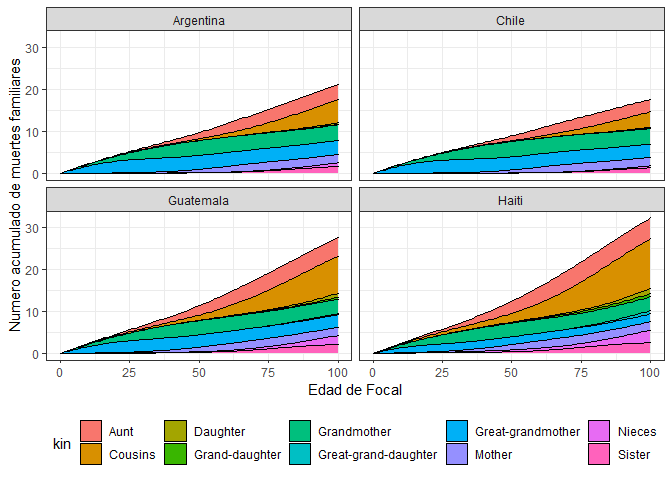
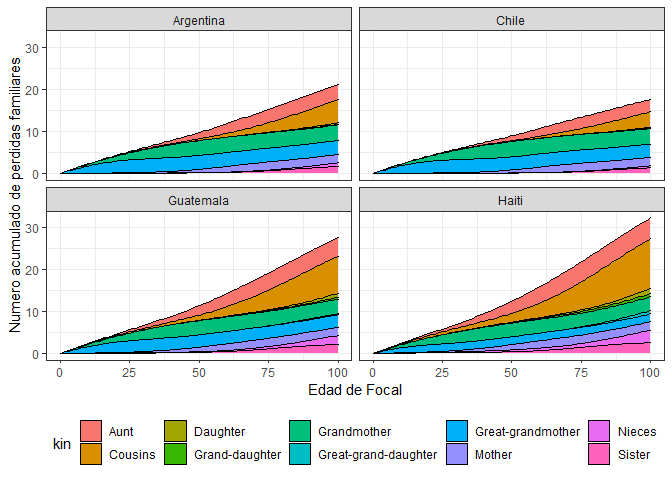
period exa ple

Changed region(s): [[0.0, 0.125, 0.0312, 0.6875]]

diff --git a/README.md b/README.md
@@ -8,12 +8,15 @@ Pre-evento del X Congreso ALAP; Valparaíso, Chile - 6 Dic 2022
     Unidas](#2-descargar-datos-de-naciones-unidas)
   - [2. Visualizar los datos](#2-visualizar-los-datos)
   - [3. La función `kin()`](#3-la-función-kin)
-  - [4. Ejemplo: número de parientes en poblaciones
-    estables](#4-ejemplo-número-de-parientes-en-poblaciones-estables)
-  - [5. Ejemplo: dinámicas regionales](#5-ejemplo-dinámicas-regionales)
-  - [6. Viñeta y extensiones](#6-viñeta-y-extensiones)
-  - [6. Ejercicios](#6-ejercicios)
-  - [8. Session info](#8-session-info)
+  - [4. Ejemplo: número de parientes en Guatemala (poblaciones
+    estables)](#4-ejemplo-número-de-parientes-en-guatemala-poblaciones-estables)
+  - [5. Parentesco en América Latina (poblaciones
+    estables)](#5-parentesco-en-américa-latina-poblaciones-estables)
+  - [6. Abuelos a traves del tiempo (poblaciones no
+    estables)](#6-abuelos-a-traves-del-tiempo-poblaciones-no-estables)
+  - [7. Viñeta y extensiones](#7-viñeta-y-extensiones)
+  - [8. Ejercicios](#8-ejercicios)
+  - [Session info](#session-info)
 
 <img src="DemoKin-Logo.png" align="right" width="200" />
 
@@ -415,7 +418,7 @@ kin_by_age_focal %>%
 
     ## [1] TRUE
 
-# 4\. Ejemplo: número de parientes en poblaciones estables
+# 4\. Ejemplo: número de parientes en Guatemala (poblaciones estables)
 
 Seguimos a Caswell (2019), al asumir una población femenina matrilineal
 cerradaen la cual todas experimentan las tasas de mortalidad y
@@ -583,7 +586,7 @@ gt_2015$kin_summary %>%
 Por ejemplo, cuando Focal alcanza los 15, 50 y 65 años de edad, habrá
 perdido un promedio de 0.6, 2.8, 4.2 parientes.
 
-# 5\. Ejemplo: dinámicas regionales
+# 5\. Parentesco en América Latina (poblaciones estables)
 
 Cómo varían las estructuras de parentesco a nivel latinoamericano? Que
 tan comun es experimentar una muerte en la familia, y como se
@@ -593,7 +596,6 @@ Primero descargamos los datos necesarios:
 
 ``` r
 # pick countries
-# countries <- c("Argentina", "Colombia", "Chile", "Guatemala", "Mexico", "Brazil")
 countries <- c("Argentina", "Haiti", "Chile", "Guatemala")
 
 # Year range
@@ -684,7 +686,7 @@ exact_death %>%
 
 ![](README_files/figure-gfm/unnamed-chunk-26-1.png)<!-- -->
 
-El numero de muertes familiares acumuldas:
+El numero de perdidas familiares acumuldas:
 
 ``` r
 cum_death <-
@@ -708,7 +710,7 @@ cum_death %>%
   ggplot(aes(x = age_focal, y = count)) +
   geom_area(aes(fill = kin), colour = "black") +
   facet_wrap(~Location) +
-  labs(x = "Edad de Focal", y = "Numero acumulado de muertes familiares") +
+  labs(x = "Edad de Focal", y = "Numero acumulado de perdidas familiares") +
   theme_bw() +
   theme(legend.position = "bottom")
 ```
@@ -754,7 +756,7 @@ exact_line %>%
     , data = . %>% filter(age_focal %in% seq(0,100,20))
     ) +
   geom_line(size = 1) +
-  labs(x = "Edad de Focal", y = "Numero de muertes familiares experimentadas") +
+  labs(x = "Edad de Focal", y = "Numero de perdidas familiares experimentadas") +
   facet_wrap(~variable, scales = "free") +
   theme_bw() +
   theme(legend.position = "bottom")
@@ -762,7 +764,128 @@ exact_line %>%
 
 ![](README_files/figure-gfm/unnamed-chunk-28-1.png)<!-- -->
 
-# 6\. Viñeta y extensiones
+# 6\. Abuelos a traves del tiempo (poblaciones no estables)
+
+``` r
+# pick countries
+countries <- c("Argentina", "Haiti", "Chile", "Guatemala")
+
+# Year range
+
+my_startyr   <- 1950
+my_endyr     <- 2020
+
+data <- get_UNWPP_inputs(
+  countries = countries
+  , my_startyr = my_startyr
+  , my_endyr = my_endyr
+  )
+```
+
+    ## [1] "Getting API ready..."
+    ## [1] "Getting mortality data for Argentina, Haiti, Chile, Guatemala"
+    ## [1] "Getting fertility data for Argentina, Haiti, Chile, Guatemala"
+
+Explorar cambios a traves del tiempo en una perspectiva de periodo.
+Vamos a usar un model que no asume estabilidad de tasas demograficas.
+
+``` r
+# period data for decennial years
+period_kin_temp <- 
+  data %>%
+  split(list(.$Location)) %>%
+  map_df(function(X){
+    print(unique(X$Location))
+    U <-
+      X %>%
+      select(Time, age, px) %>%
+      pivot_wider(names_from = Time, values_from = px) %>%
+      select(-age) %>% as.matrix()
+    f <- X %>%
+      select(Time, age, ASFR) %>%
+      mutate(ASFR = ASFR/1000) %>% 
+      pivot_wider(names_from = Time, values_from = ASFR) %>%
+      select(-age) %>% as.matrix()
+    kin(U, f, time_invariant = FALSE, output_kin = c("gm"), output_period = seq(1950, 2020, 10))$kin_summary %>%
+      mutate(Location = unique(X$Location),  .before = 1)
+  })
+```
+
+    ## [1] "Argentina"
+
+    ## Stable assumption was made for calculating pi on each year because no input data.
+
+    ## Warning: replacing previous import 'lifecycle::last_warnings' by
+    ## 'rlang::last_warnings' when loading 'hms'
+
+    ## Assuming stable population before 1950.
+
+    ## [1] "Chile"
+
+    ## Stable assumption was made for calculating pi on each year because no input data.
+
+    ## Assuming stable population before 1950.
+
+    ## [1] "Guatemala"
+
+    ## Stable assumption was made for calculating pi on each year because no input data.
+    ## Assuming stable population before 1950.
+
+    ## [1] "Haiti"
+
+    ## Stable assumption was made for calculating pi on each year because no input data.
+    ## Assuming stable population before 1950.
+
+``` r
+# Aproximemos valores para dos sexos usando GKP factors:
+
+period_kin <- 
+  period_kin_temp %>% 
+    approx_two_sex()
+```
+
+    ## [1] "Note: approx_two_sex only keeps columns with data on kin counts!"
+
+Ahora podemos graficar cambio a travel del tiempo, por ejemplo, en el
+numero promedio de abuelos para ninos de 5 anios de edad:
+
+``` r
+period_kin %>% 
+  filter(age_focal %in% c(5)) %>% 
+  select(Location, kin, year, age_focal, count_living) %>% 
+  ggplot(aes(year,count_living,color=Location, shape = Location)) +
+  geom_line(size = 1) + 
+  geom_point(size = 4) +
+  labs(x = "Año", y = "Número de abuelos vivos para un niño de 5 años") +
+  theme_bw() +
+  theme(legend.position = "bottom") 
+```
+
+![](README_files/figure-gfm/unnamed-chunk-31-1.png)<!-- -->
+
+Finalmente, que tan comun es perder a un abuelo y a que edad se
+experimenta la perdida de un abuelo en los distintos paises? Como ha
+cambiado esto a traves del tiempo?
+
+``` r
+period_kin %>% 
+  filter(
+    between(age_focal, 1, 50)
+    , year %in% c(1950, 1980, 2020)
+    ) %>% 
+  mutate(year = as.factor(year)) %>% 
+  ggplot(aes(x = age_focal, y = count_dead, colour = year, group = year, shape = year)) +
+  geom_line(size = 1) + 
+  geom_point(size = 4, data = . %>% filter(age_focal %in% c(1, seq(0, 50, 10)))) +
+  labs(x = "Edad de Focal", y = "Número de abuelos que mueren a cada edad", shape = "Año", colour = "Año") +
+  facet_wrap(~Location) +
+  theme_bw() +
+  theme(legend.position = "bottom") 
+```
+
+![](README_files/figure-gfm/unnamed-chunk-32-1.png)<!-- -->
+
+# 7\. Viñeta y extensiones
 
 Para más detalles sobre `DemoKin`, incluyendo una extensión a
 poblaciones no estables, y modelos multi-state, ver
@@ -777,7 +900,7 @@ Para una descripción detallada de los modelos de parentesco, ver:
   - poblaciones no estables (Caswell and Song 2021), and
   - modelos con dos sexos (Caswell 2022).
 
-# 6\. Ejercicios
+# 8\. Ejercicios
 
 **Para todos los ejercicios, asuma una población estable femenina con
 las tasas de 2010 en Argentina.**
@@ -823,7 +946,7 @@ gt_2015$kin_summary %>%
 
     ## Warning: Removed 1 row(s) containing missing values (geom_path).
 
-![](README_files/figure-gfm/unnamed-chunk-31-1.png)<!-- -->
+![](README_files/figure-gfm/unnamed-chunk-35-1.png)<!-- -->
 
 **Instrucciones**
 
@@ -927,7 +1050,7 @@ edades 15 y 70. Asuma una población femenina estable.
 # Escriba su código aquí
 ```
 
-# 8\. Session info
+# Session info
 
 ``` r
 sessionInfo()
@@ -955,17 +1078,17 @@ sessionInfo()
     ## [5] purrr_0.3.4     tidyr_1.1.3     dplyr_1.0.5     DemoKin_1.0.0  
     ## 
     ## loaded via a namespace (and not attached):
-    ##  [1] highr_0.8        pillar_1.5.1     compiler_4.0.2   tools_4.0.2     
-    ##  [5] digest_0.6.28    evaluate_0.17    lifecycle_1.0.0  tibble_3.1.0    
-    ##  [9] gtable_0.3.0     pkgconfig_2.0.3  rlang_1.0.2      igraph_1.2.6    
-    ## [13] cli_3.2.0        DBI_1.1.1        rstudioapi_0.13  yaml_2.2.1      
-    ## [17] xfun_0.21        fastmap_1.1.0    withr_2.5.0      stringr_1.4.0   
-    ## [21] knitr_1.31       maps_3.3.0       generics_0.1.0   vctrs_0.4.1     
-    ## [25] tidyselect_1.1.0 glue_1.6.2       R6_2.5.0         fansi_0.4.2     
-    ## [29] rmarkdown_2.7    farver_2.1.0     magrittr_2.0.1   scales_1.1.1    
-    ## [33] ellipsis_0.3.2   htmltools_0.5.2  assertthat_0.2.1 colorspace_2.0-0
-    ## [37] labeling_0.4.2   utf8_1.2.1       stringi_1.5.3    munsell_0.5.0   
-    ## [41] crayon_1.4.1
+    ##  [1] highr_0.8         pillar_1.5.1      compiler_4.0.2    prettyunits_1.1.1
+    ##  [5] progress_1.2.2    tools_4.0.2       digest_0.6.28     evaluate_0.17    
+    ##  [9] lifecycle_1.0.0   tibble_3.1.0      gtable_0.3.0      pkgconfig_2.0.3  
+    ## [13] rlang_1.0.2       igraph_1.2.6      cli_3.2.0         DBI_1.1.1        
+    ## [17] rstudioapi_0.13   yaml_2.2.1        xfun_0.21         fastmap_1.1.0    
+    ## [21] withr_2.5.0       stringr_1.4.0     knitr_1.31        hms_1.0.0        
+    ## [25] maps_3.3.0        generics_0.1.0    vctrs_0.4.1       tidyselect_1.1.0 
+    ## [29] glue_1.6.2        R6_2.5.0          fansi_0.4.2       rmarkdown_2.7    
+    ## [33] farver_2.1.0      magrittr_2.0.1    scales_1.1.1      ellipsis_0.3.2   
+    ## [37] htmltools_0.5.2   assertthat_0.2.1  colorspace_2.0-0  labeling_0.4.2   
+    ## [41] utf8_1.2.1        stringi_1.5.3     munsell_0.5.0     crayon_1.4.1
 
 ## References
 
